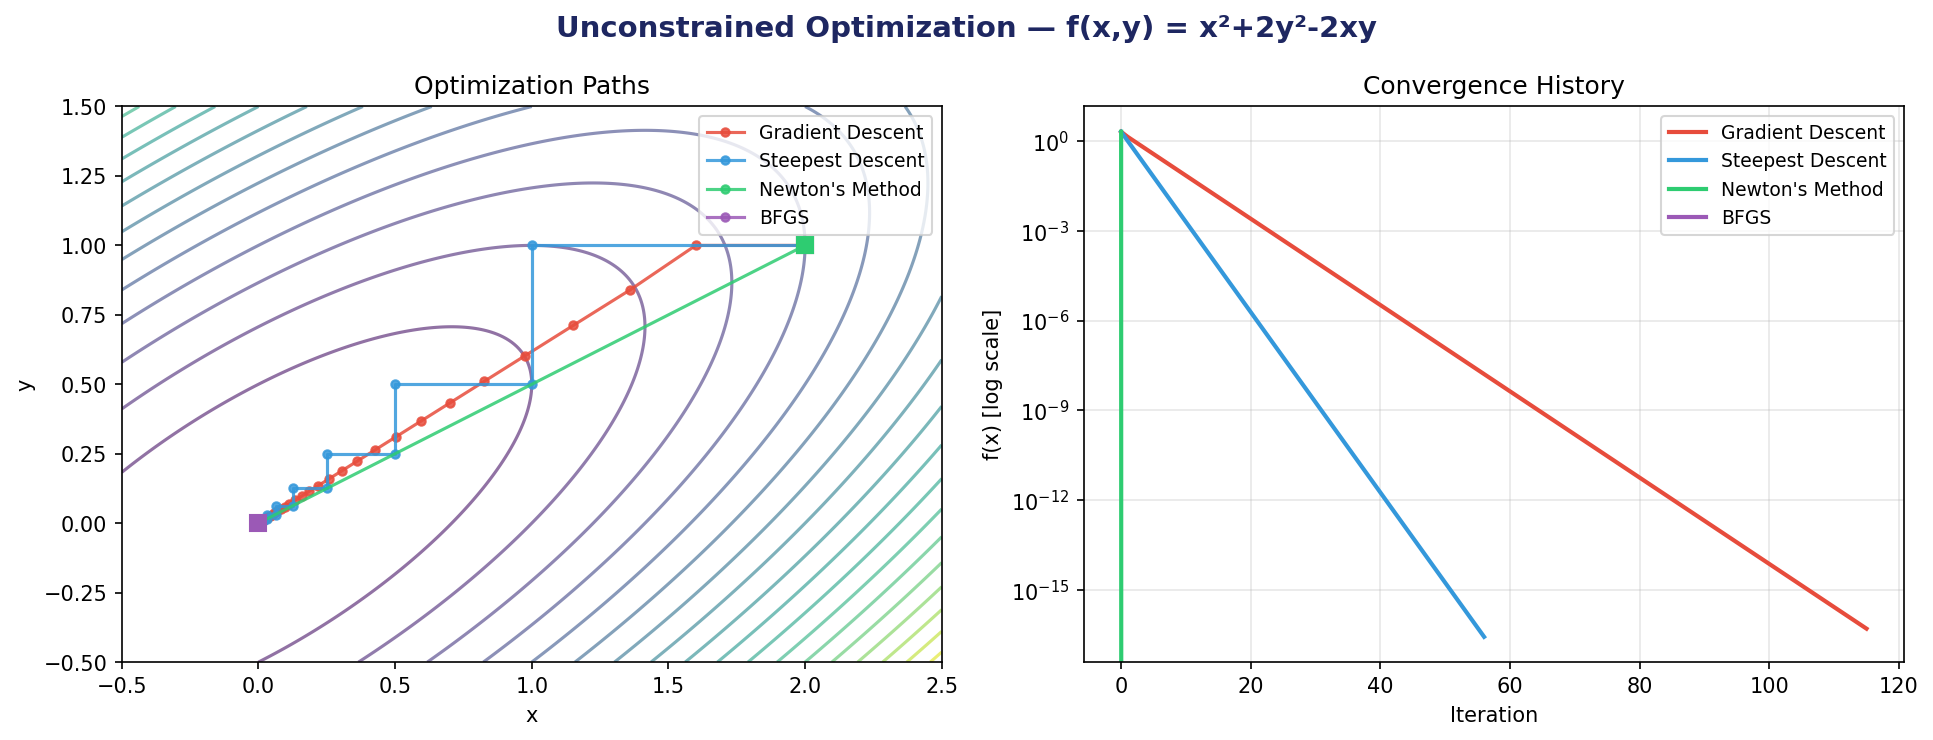
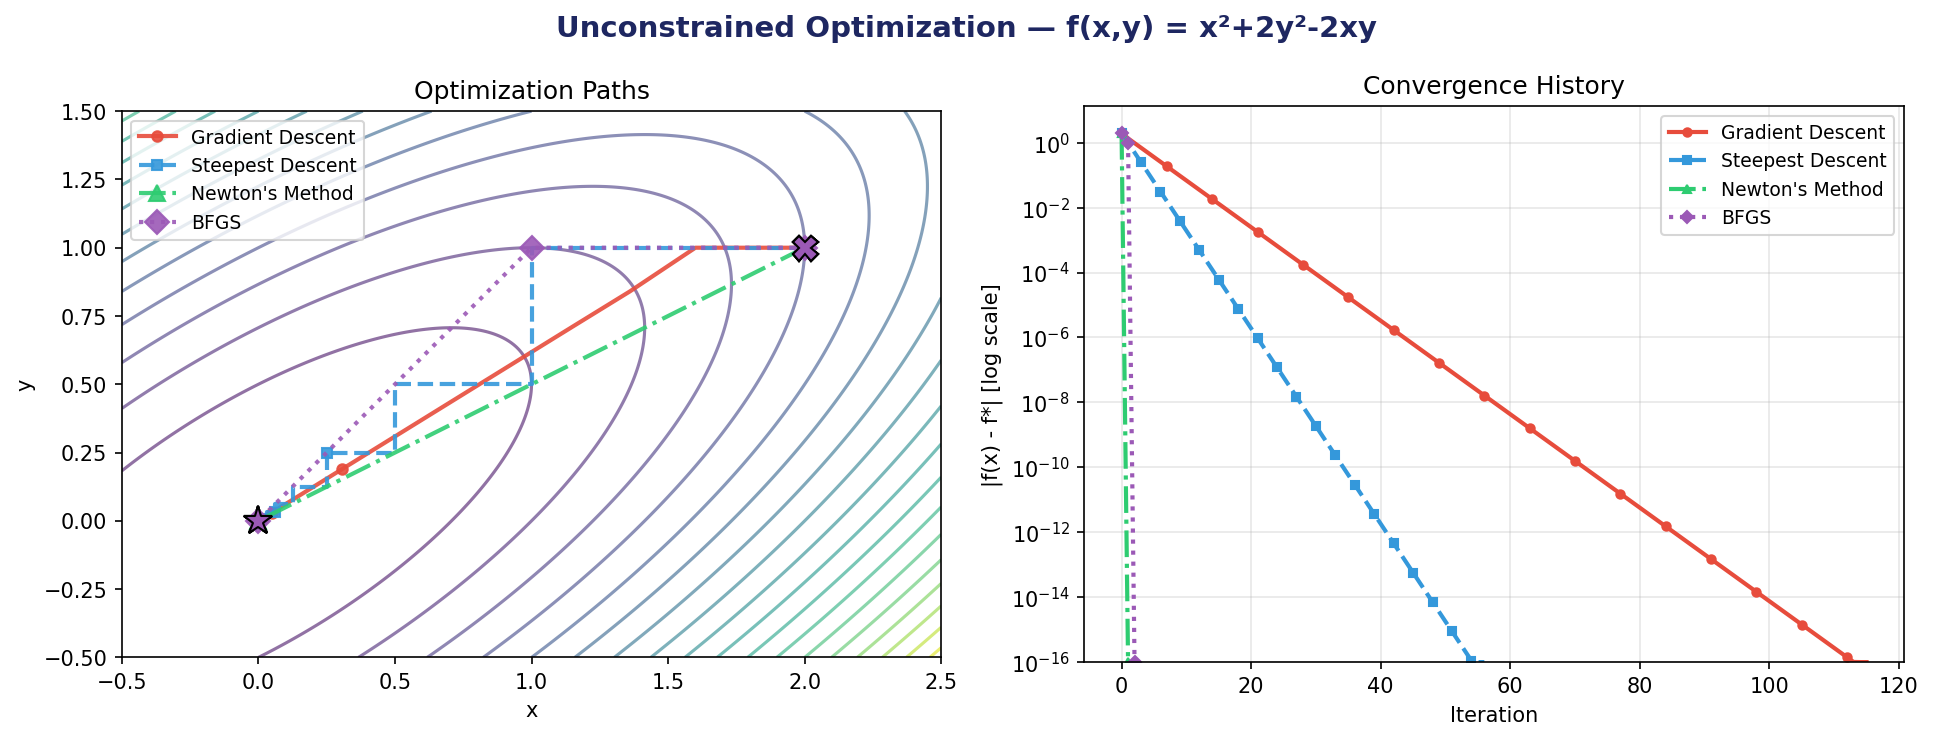
fixed bug in code prevents iteration in GD

diff --git a/optimization_code.py b/optimization_code.py
@@ -31,7 +31,7 @@ def print_result(label, value, fmt=".6f"):
 # ============================================================
 #
 # Unconstrained: f(x,y) = (x-3)^2 + (y-2)^2   → min at (3,2), f=0
-# Unconstrained: f(x,y) = x^2 + 2y^2 - 2xy    → min at (0,0), f=0 (Rosenbrock-like)
+# Unconstrained: f(x,y) = x^2 + 2y^2 - 2xy    → min at (0,0), f=0 (elongated quadratic)
 # Constrained  : min f(x,y)=x^2+y^2  s.t. x+y=4  → min at (2,2), f=8
 # KKT          : min f(x,y)=x^2+y^2  s.t. x+y>=4 → same KKT point (active)
 #
@@ -80,7 +80,7 @@ def gradient_descent(f, grad_f, x0, alpha=0.1, tol=1e-8, max_iter=1000):
     return x, f(x), k+1, history
 
 # ============================================================
-# 2. STEEPEST DESCENT (exact line search via Armijo / quadratic)
+# 2. STEEPEST DESCENT (exact line search via Armijo)
 # ============================================================
 
 def steepest_descent(f, grad_f, x0, tol=1e-8, max_iter=1000):
@@ -259,38 +259,87 @@ def combined_constraints():
     return result
 
 # ============================================================
-# PLOTTING
+# PLOTTING (FIXED)
 # ============================================================
 
-def plot_convergence(histories, labels, title, f, xlim=(-1,5), ylim=(-1,5)):
+def plot_convergence(histories, labels, title, f, f_star=0.0, xlim=(-1,5), ylim=(-1,5)):
+    """
+    Plot optimization paths on contour + convergence history.
+
+    FIXES applied:
+      1. Vectorized Z computation (was O(n²) Python loops)
+      2. Plot |f(x) - f*| clipped at 1e-16 to avoid log(0) in semilogy
+      3. Added star markers for final converged points
+      4. Added equal aspect ratio for contour plot
+      5. Unique linestyles/markers per method so overlapping paths remain visible
+    """
     fig, (ax1, ax2) = plt.subplots(1, 2, figsize=(13, 5))
     fig.suptitle(title, fontsize=14, fontweight='bold', color='#1E2761')
 
-    # Contour
+    # ---- Contour (vectorized evaluation) ----
     x_vals = np.linspace(xlim[0], xlim[1], 300)
     y_vals = np.linspace(ylim[0], ylim[1], 300)
     X, Y = np.meshgrid(x_vals, y_vals)
-    Z = np.array([[f([xi, yi]) for xi in x_vals] for yi in y_vals])
+
+    # Vectorized: stack and evaluate in one go
+    XY = np.stack([X.ravel(), Y.ravel()], axis=1)
+    Z = np.array([f(xy) for xy in XY]).reshape(X.shape)
+
     ax1.contour(X, Y, Z, levels=20, cmap='viridis', alpha=0.6)
+
     colors = ['#E74C3C', '#3498DB', '#2ECC71', '#9B59B6']
+    linestyles = ['-', '--', '-.', ':']
+    markers = ['o', 's', '^', 'D']
+
     for i, (hist, lbl) in enumerate(zip(histories, labels)):
         arr = np.array(hist)
-        ax1.plot(arr[:,0], arr[:,1], '-o', markersize=4,
-                 color=colors[i % len(colors)], label=lbl, alpha=0.85, linewidth=1.5)
-        ax1.plot(arr[0,0], arr[0,1], 's', color=colors[i % len(colors)], markersize=8)
-    ax1.set_xlabel('x'); ax1.set_ylabel('y')
-    ax1.set_title('Optimization Paths'); ax1.legend(fontsize=9)
-    ax1.set_xlim(xlim); ax1.set_ylim(ylim)
+        if len(arr) == 0:
+            continue
+        ax1.plot(arr[:,0], arr[:,1], 
+                 linestyle=linestyles[i % len(linestyles)],
+                 marker=markers[i % len(markers)],
+                 markersize=5 if len(arr) > 5 else 8,
+                 markevery=max(1, len(arr)//10) if len(arr) > 10 else 1,
+                 color=colors[i % len(colors)], 
+                 label=lbl, 
+                 alpha=0.9, 
+                 linewidth=2)
+        # Start point (X marker)
+        ax1.plot(arr[0,0], arr[0,1], 'X', color=colors[i % len(colors)], 
+                 markersize=12, markeredgecolor='black', markeredgewidth=1)
+        # End point (star)
+        ax1.plot(arr[-1,0], arr[-1,1], '*', color=colors[i % len(colors)], 
+                 markersize=14, markeredgecolor='black', markeredgewidth=1)
 
-    # Convergence
+    ax1.set_xlabel('x')
+    ax1.set_ylabel('y')
+    ax1.set_title('Optimization Paths')
+    ax1.legend(fontsize=9, loc='upper left')
+    ax1.set_xlim(xlim)
+    ax1.set_ylim(ylim)
+    ax1.set_aspect('equal', adjustable='box')
+
+    # ---- Convergence (log scale, avoids log(0)) ----
     for i, (hist, lbl) in enumerate(zip(histories, labels)):
         iters = np.arange(len(hist))
-        fvals = [f(h) for h in hist]
-        ax2.semilogy(iters, fvals, color=colors[i % len(colors)],
-                     label=lbl, linewidth=2)
-    ax2.set_xlabel('Iteration'); ax2.set_ylabel('f(x) [log scale]')
-    ax2.set_title('Convergence History'); ax2.legend(fontsize=9)
+        fvals = np.array([f(h) for h in hist])
+        err = np.abs(fvals - f_star)
+        err_clipped = np.clip(err, 1e-16, None)   # prevent log(0)
+        ax2.semilogy(iters, err_clipped, 
+                     linestyle=linestyles[i % len(linestyles)],
+                     marker=markers[i % len(markers)],
+                     markersize=4,
+                     markevery=max(1, len(hist)//15) if len(hist) > 15 else 1,
+                     color=colors[i % len(colors)],
+                     label=lbl, 
+                     linewidth=2)
+
+    ax2.set_xlabel('Iteration')
+    ax2.set_ylabel('|f(x) - f*| [log scale]')
+    ax2.set_title('Convergence History')
+    ax2.legend(fontsize=9)
     ax2.grid(True, alpha=0.3)
+    ax2.set_ylim(bottom=1e-16)
 
     plt.tight_layout()
     return fig
@@ -304,7 +353,7 @@ if __name__ == "__main__":
 
     # ---- 1. GRADIENT DESCENT ----
     print_section("1. GRADIENT DESCENT  [f(x,y) = (x-3)²+(y-2)²]")
-    xopt, fopt, nit, hist_gd = gradient_descent(f1, grad_f1, x0, alpha=0.4)
+    xopt, fopt, nit, hist_gd = gradient_descent(f1, grad_f1, x0, alpha=0.1)
     print_result("x*", xopt); print_result("f(x*)", fopt); print_result("Iterations", nit, "d")
     print("  Analytical solution: x*=(3,2), f*=0")
 
@@ -320,8 +369,9 @@ if __name__ == "__main__":
     print("  (Quadratic → Newton converges in 1 step)")
 
     # ---- 4. BFGS QUASI-NEWTON ----
+    # FIX: use same starting point [2.0, 1.0] as the other methods for f2
     print_section("4. QUASI-NEWTON (BFGS)  [f(x,y) = x²+2y²-2xy]")
-    xopt2, fopt2, nit2, hist_bfgs = bfgs(f2, grad_f2, x0)
+    xopt2, fopt2, nit2, hist_bfgs = bfgs(f2, grad_f2, [2.0, 1.0])   # <-- FIXED
     print_result("x*", xopt2); print_result("f(x*)", fopt2); print_result("Iterations", nit2, "d")
     print("  Analytical solution: x*=(0,0), f*=0")
 
@@ -358,19 +408,22 @@ if __name__ == "__main__":
         [hist_gd, hist_sd, hist_nm],
         ['Gradient Descent', 'Steepest Descent', "Newton's Method"],
         "Unconstrained Optimization — f(x,y) = (x-3)²+(y-2)²",
-        f1, xlim=(-0.5, 4), ylim=(-0.5, 3.5)
+        f1, f_star=0.0,
+        xlim=(-0.5, 4), ylim=(-0.5, 3.5)
     )
     fig1.savefig("unconstrained_convergence.png", dpi=150, bbox_inches='tight')
 
-    # Convergence comparison on f2
+    # Convergence comparison on f2 — ALL methods start from [2.0, 1.0]
     _, _, _, hist_gd2 = gradient_descent(f2, grad_f2, [2.0, 1.0], alpha=0.2)
     _, _, _, hist_sd2 = steepest_descent(f2, grad_f2, [2.0, 1.0])
     _, _, _, hist_nm2 = newtons_method(f2, grad_f2, hess_f2, [2.0, 1.0])
+    # BFGS already computed above with [2.0, 1.0]
     fig2 = plot_convergence(
         [hist_gd2, hist_sd2, hist_nm2, hist_bfgs],
         ['Gradient Descent', 'Steepest Descent', "Newton's Method", 'BFGS'],
         "Unconstrained Optimization — f(x,y) = x²+2y²-2xy",
-        f2, xlim=(-0.5, 2.5), ylim=(-0.5, 1.5)
+        f2, f_star=0.0,
+        xlim=(-0.5, 2.5), ylim=(-0.5, 1.5)
     )
     fig2.savefig("quasi_newton_convergence.png", dpi=150, bbox_inches='tight')
 
